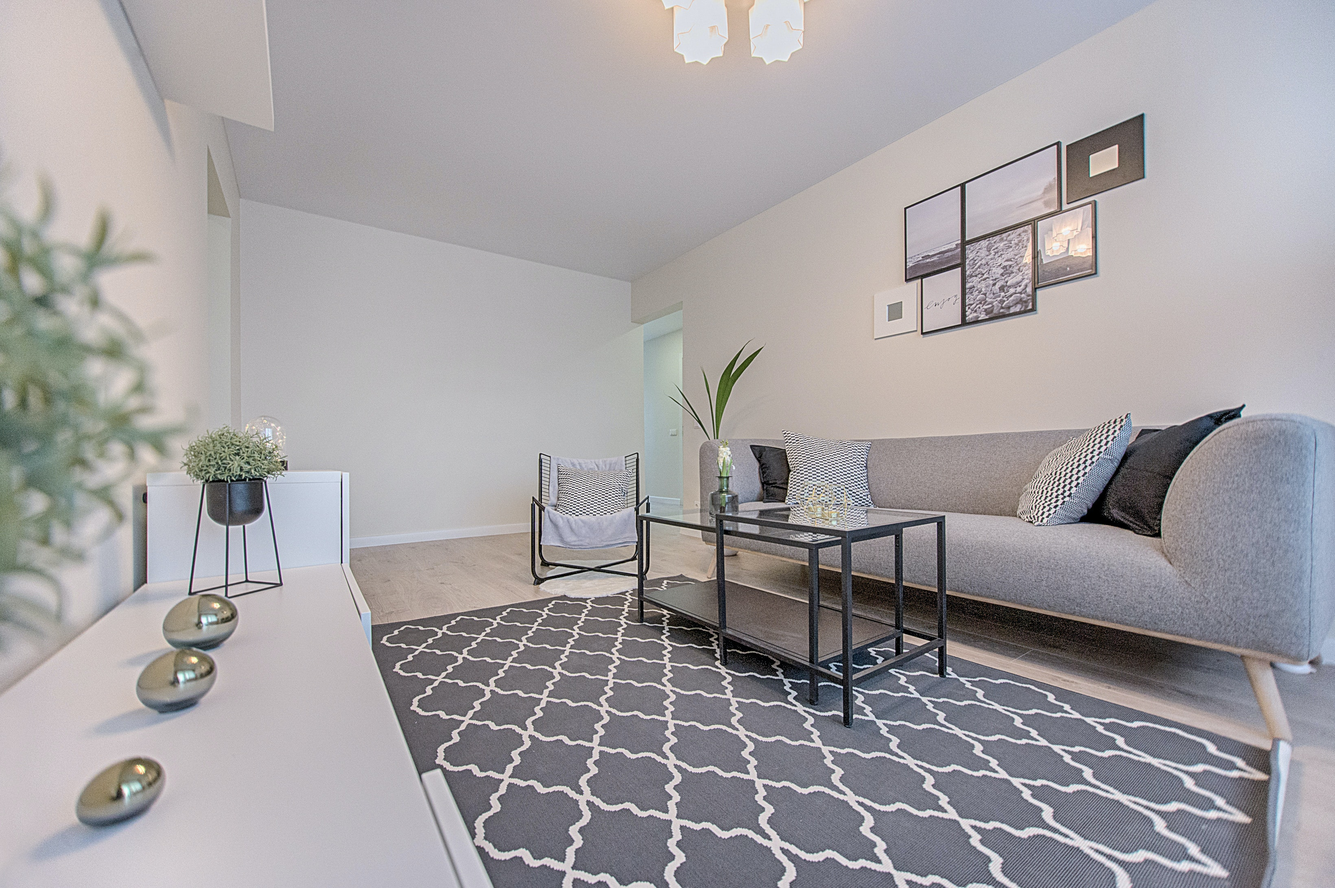
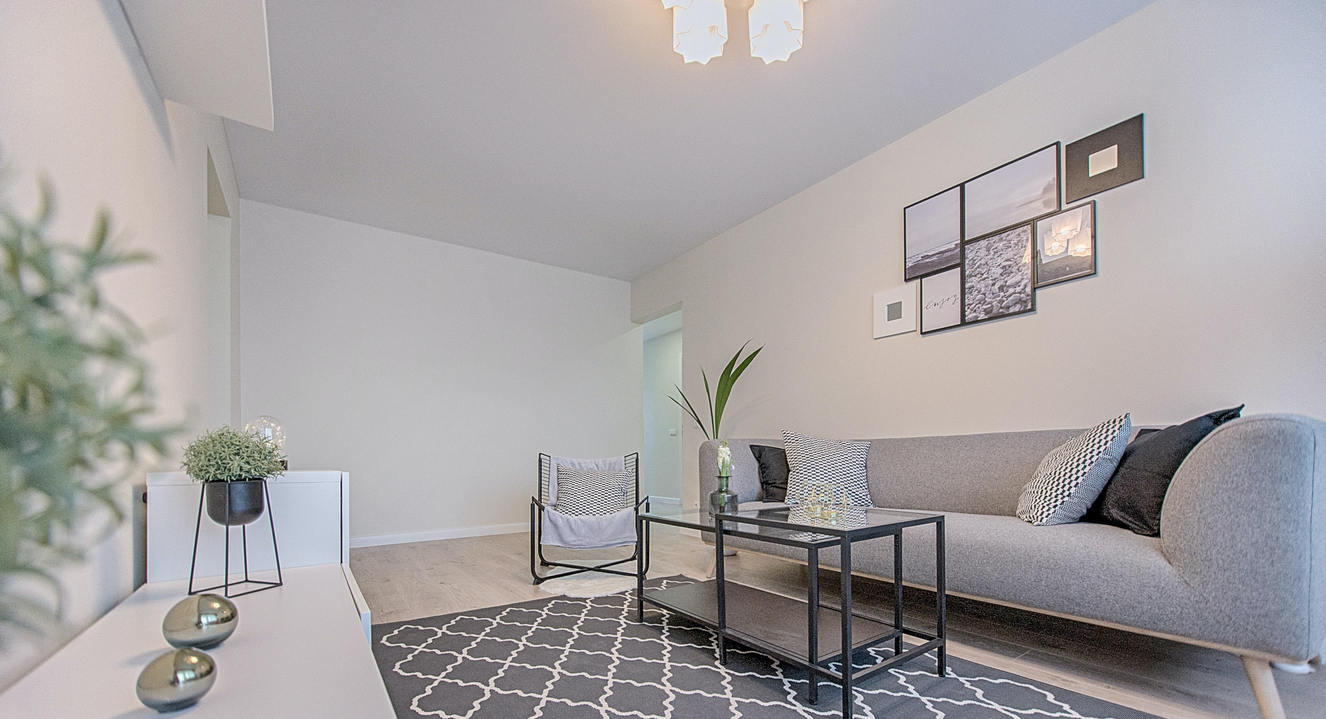
update

diff --git a/aboutus.html b/aboutus.html
@@ -44,10 +44,16 @@
         <div class="aboutus">
             <div class="aboutus__column">
                 <div class="aboutus__first">
-                    <p>2000년 1월 3일 실내 인테리어 업계에서 시작하여 관공서 인테리어, 오피스 인테리어 시설과, 
-                        근린생활 공간, 그 외 공사 등을 성실히 수행, 항상 쾌적하고 미려한 공간을 창조하여 고객의
-                        만족을 위해 노력하고 있는 인테리어 전문기업으로 약 20여년 동안 꾸준한 성장을 이뤄 온
-                        예전 디자인은 그간 다져진 경험과 축적된 기술력, 고객감동이 실현으로 자리매김하고 있습니다.</p>
+                    <p>2000년 1월 3일 실내 인테리어 업계에서 
+                        <p>시작하여 관공서 인테리어, 오피스 인테리어</p> 
+                        <p>시설과, 근린생활 공간, 그 외 공사 등을 </p>
+                        <p>성실히 수행, 항상 쾌적하고 미려한 공간을</p> 
+                        <p>창조하여 고객의 만족을 위해 노력하고 있는 </p>
+                        <p>인테리어 전문기업으로 약 20여년 동안</p> 
+                        <p>꾸준한 성장을 이뤄 온 예전 디자인은 그간</p>
+                        <p>다져진 경험과 축적된 기술력, 고객감동이</p>
+                        <p> 실현으로 자리매김하고 있습니다.</p>
+                        
                 </div>
                 <div class="aboutus__first">
                     <img src="css/img/co-web.PNG" alt="">

diff --git a/index.html b/index.html
@@ -6,6 +6,7 @@
     <style>
         .page-sheet{
             margin-top: 17vh;
+            
         }
     </style>
     <link rel="shortcut icon" href="css/img/YJ_logo.png">

diff --git a/css/index.css b/css/index.css
@@ -1,3 +1,3 @@
 .home__img {
-  width: 100%;
+  width: 95%;
 }
